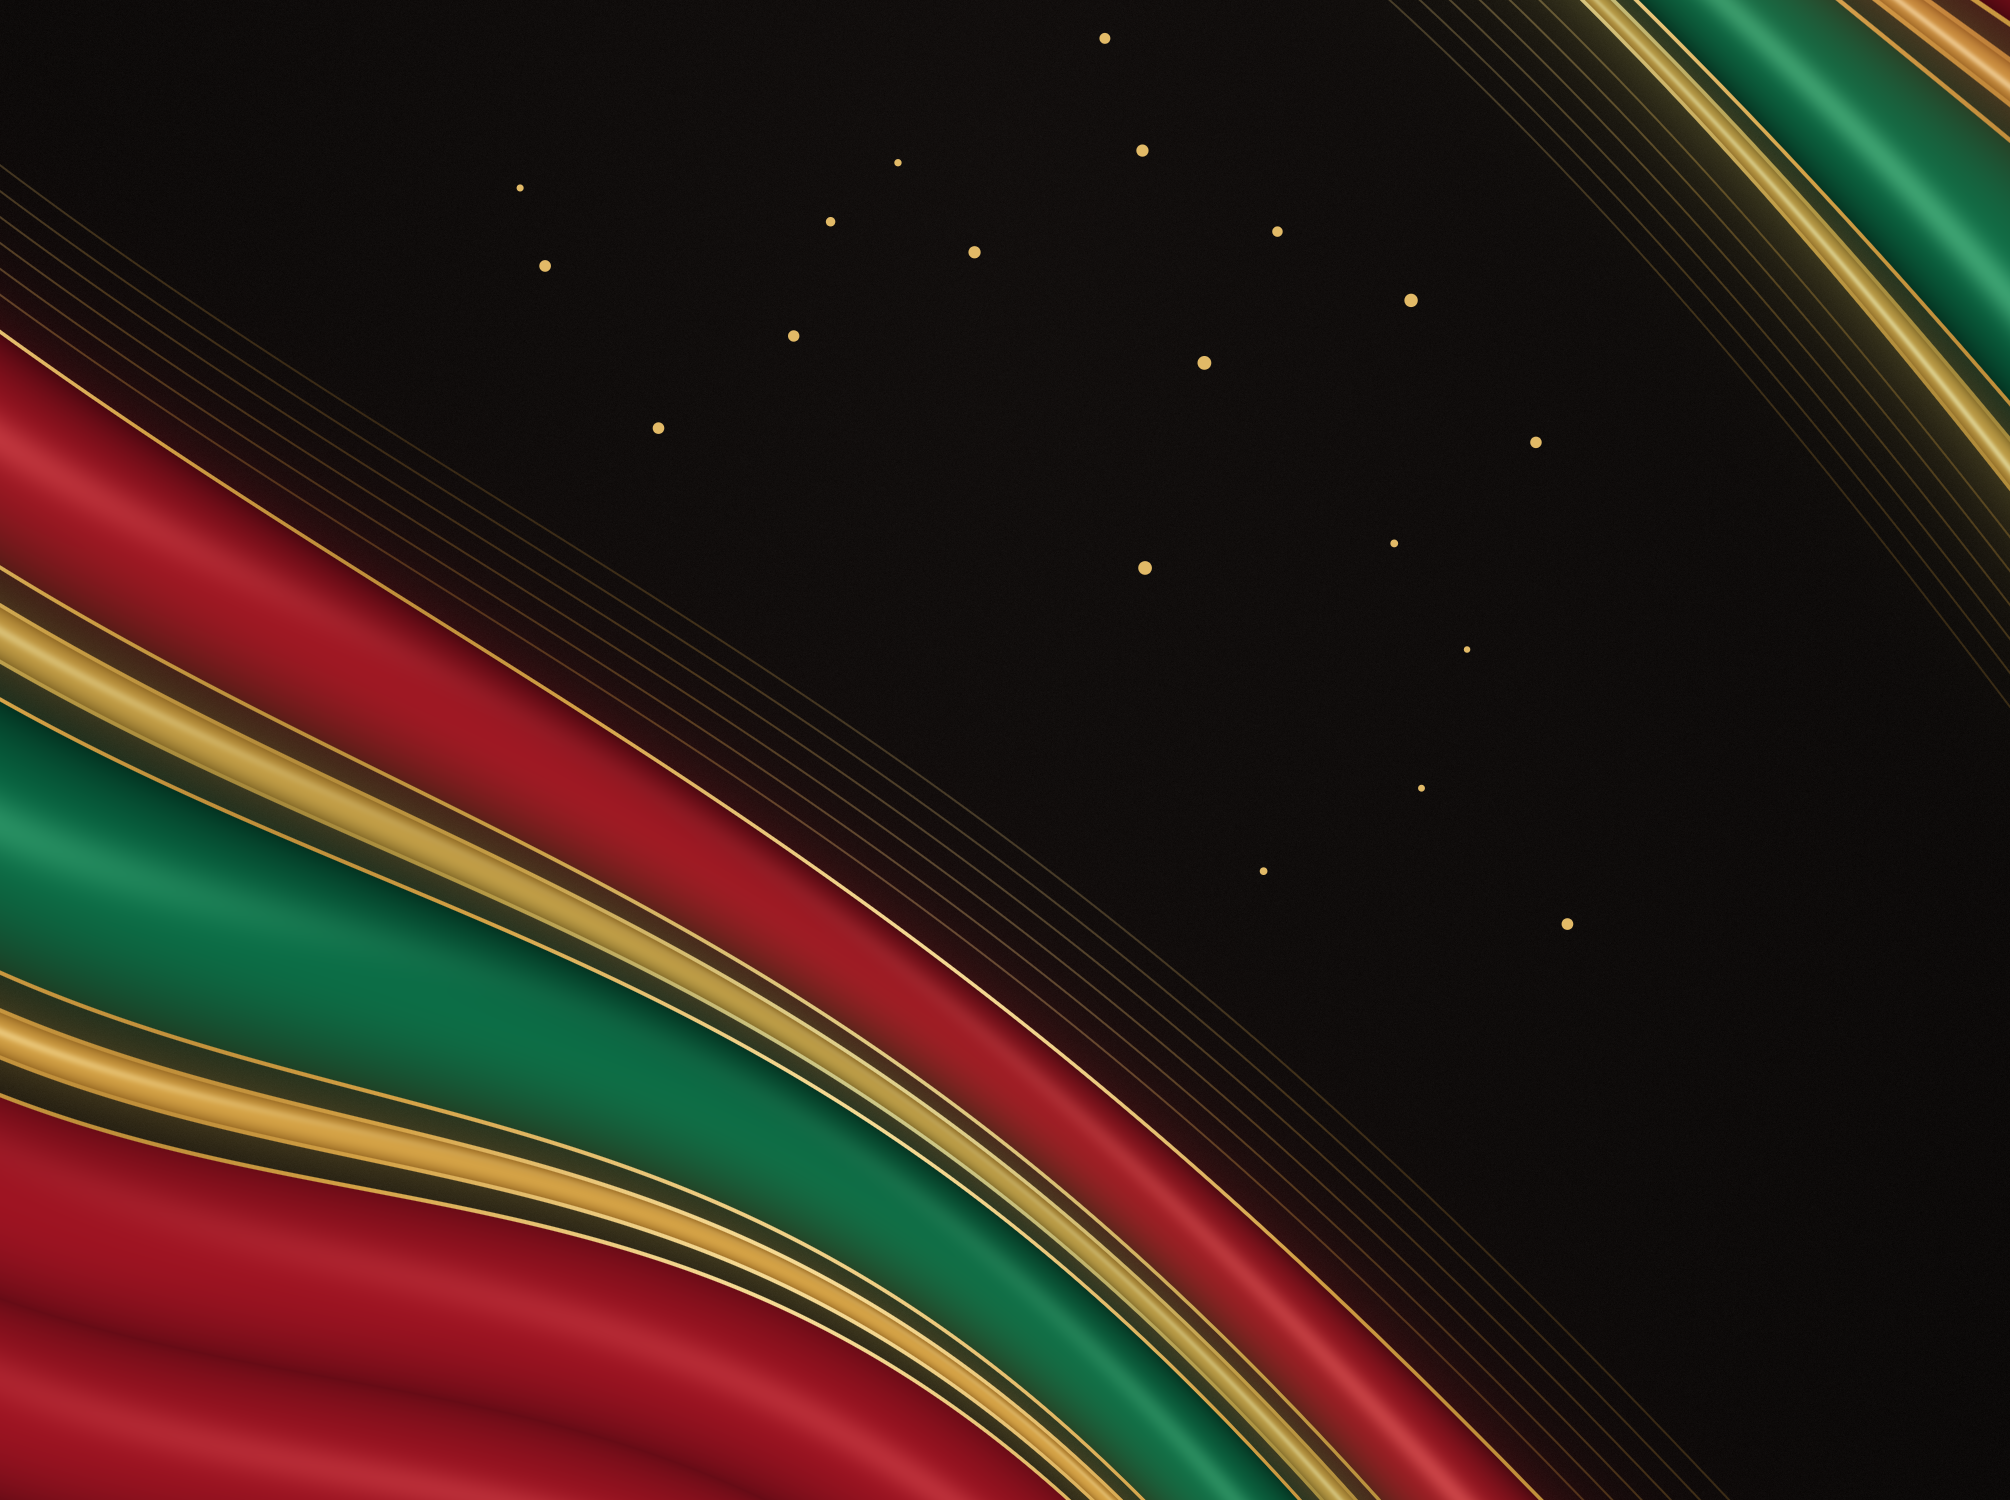
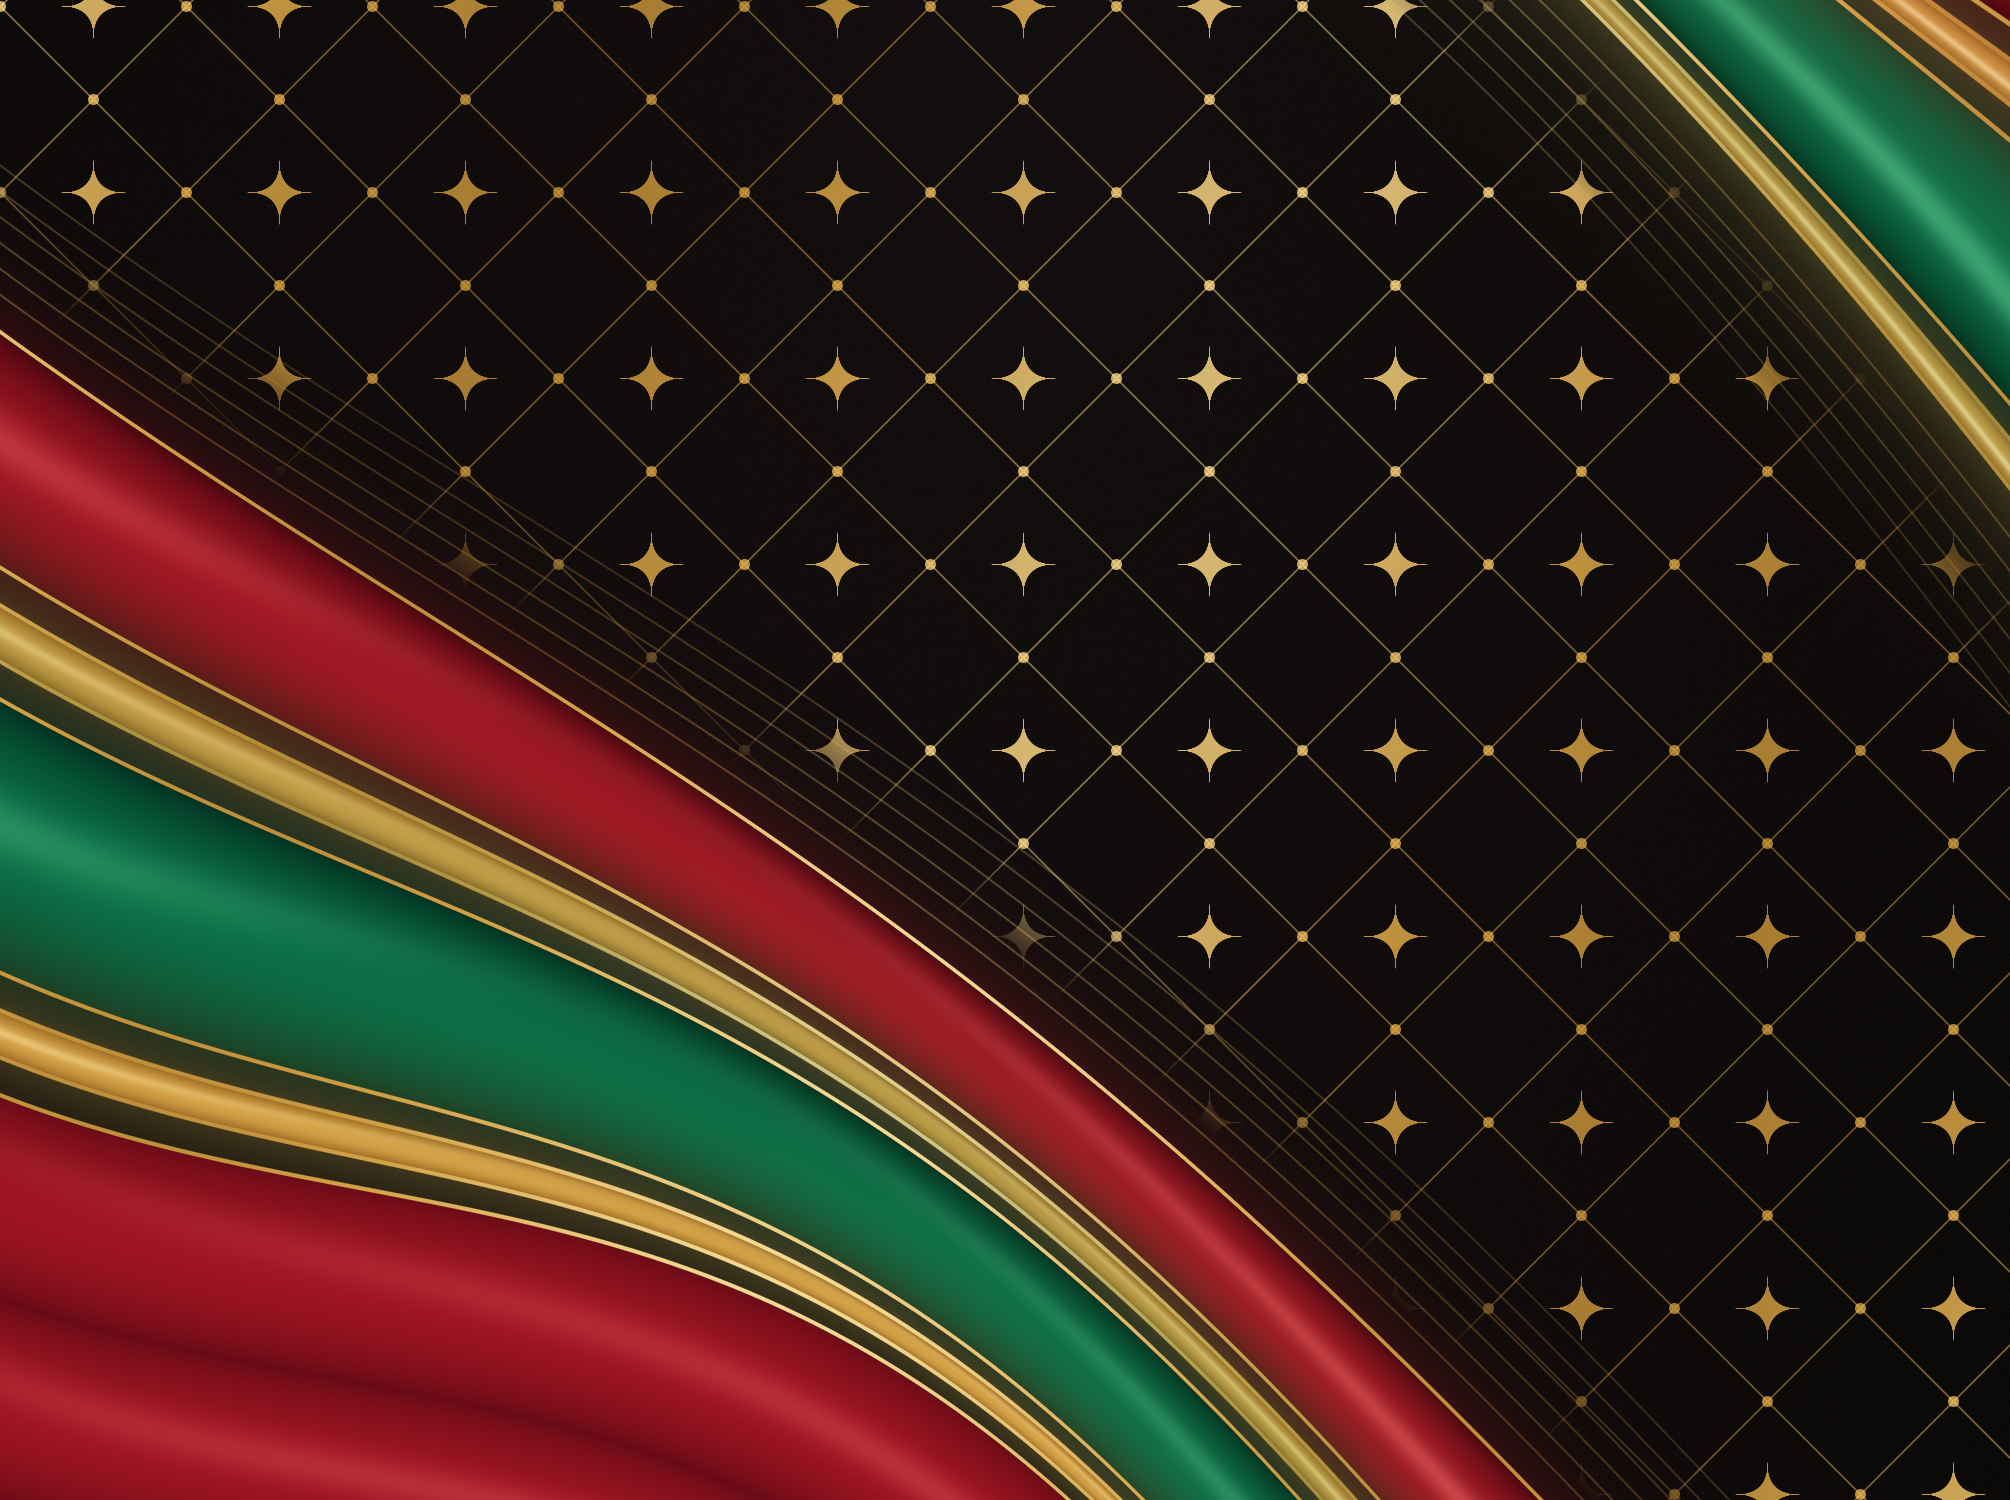
Royal Sweep: fill the center with a gold line lattice
Fine diagonal gold lines with dots and small four-point stars across the
open black, fading toward the ribbons. No central medallion.

Claude-Session: https://claude.ai/code/session_01Mt1Tg14bgvqpkRSeX5tTDt

diff --git a/heritage-crossbody-bag/make_sweep_design.py b/heritage-crossbody-bag/make_sweep_design.py
@@ -115,22 +115,30 @@ def compose(W, H):
     ribbon(D2, 1.44 * px * sw2, 1.54 * px * sw2, GOLD, along2)
     folds(D2, 1.62 * px * sw2, RUBY, along2, 0.55 * px)
 
-    # scattered gold sparkles in the open black
-    rng = np.random.default_rng(3)
+    # ---- center: fine gold line lattice across the whole open area, fading toward the ribbons ----
+    open_area = (np.clip((-D1 - 0.12 * px) / (0.35 * px), 0, 1) *
+                 np.clip((-D2 - 0.12 * px) / (0.35 * px), 0, 1))
+    xp, yp = u * W, v * H
+    step = 0.62 * px
+    a1 = (xp + yp) % step
+    a2 = (xp - yp) % step
+    d_line = np.minimum(np.minimum(a1, step - a1), np.minimum(a2, step - a2))
+    lat = np.clip(1.2 - d_line + 0.5, 0, 1) * 0.55
+    # gold dots where lines cross
+    i1, i2 = np.round((xp + yp) / step), np.round((xp - yp) / step)
+    cx_, cy_ = (i1 + i2) * step / 2, (i1 - i2) * step / 2
+    d_dot = np.hypot(xp - cx_, yp - cy_)
+    dots = np.clip(5.5 - d_dot + 0.5, 0, 1)
+    # small four-point stars in the middle of every other diamond
+    j1, j2 = np.floor((xp + yp) / step), np.floor((xp - yp) / step)
+    mx, my = (j1 + j2 + 1) * step / 2, (j1 - j2) * step / 2
+    dx, dy = np.abs(xp - mx), np.abs(yp - my)
+    star_r = 0.085 * step
+    star = np.clip(star_r - (np.sqrt(dx) + np.sqrt(dy)) ** 2 / 1.0 * 0.5 + 0.5, 0, 1) * ((j1 + j2) % 2 == 0)
+
+    pattern_a = np.clip(lat + dots * 0.85 + star * 0.9, 0, 1) * open_area
+    over(gold_at(0.35 + 0.45 * sheen), pattern_a[..., None])
     img = np.clip(out, 0, 255)
-    for _ in range(40):
-        sx, sy = rng.uniform(0.1, 0.9) * W, rng.uniform(0.2, 0.8) * H
-        uu, vv = sx / W, sy / H
-        d1 = sweep_distance(np.float32(uu), np.float32(vv), W, H, -0.16, 0.80, 0.045, 0.8, 0.6)
-        d2 = -sweep_distance(np.float32(uu), np.float32(vv), W, H, 0.52, 0.66, 0.04, 0.7, 2.2)
-        if d1 > -0.6 * px or d2 > -0.6 * px:
-            continue
-        rr = rng.uniform(3, 7)
-        yy0, yy1, xx0, xx1 = int(sy - 12), int(sy + 13), int(sx - 12), int(sx + 13)
-        gy, gx = np.mgrid[yy0:yy1, xx0:xx1].astype(np.float32)
-        a = np.clip(rr - np.hypot(gx - sx, gy - sy) + 0.5, 0, 1)[..., None]
-        patch = img[yy0:yy1, xx0:xx1]
-        img[yy0:yy1, xx0:xx1] = patch * (1 - a) + gold_at(np.full(a.shape[:2], 0.7)) * a
     return Image.fromarray(img.astype(np.uint8))
 
 
